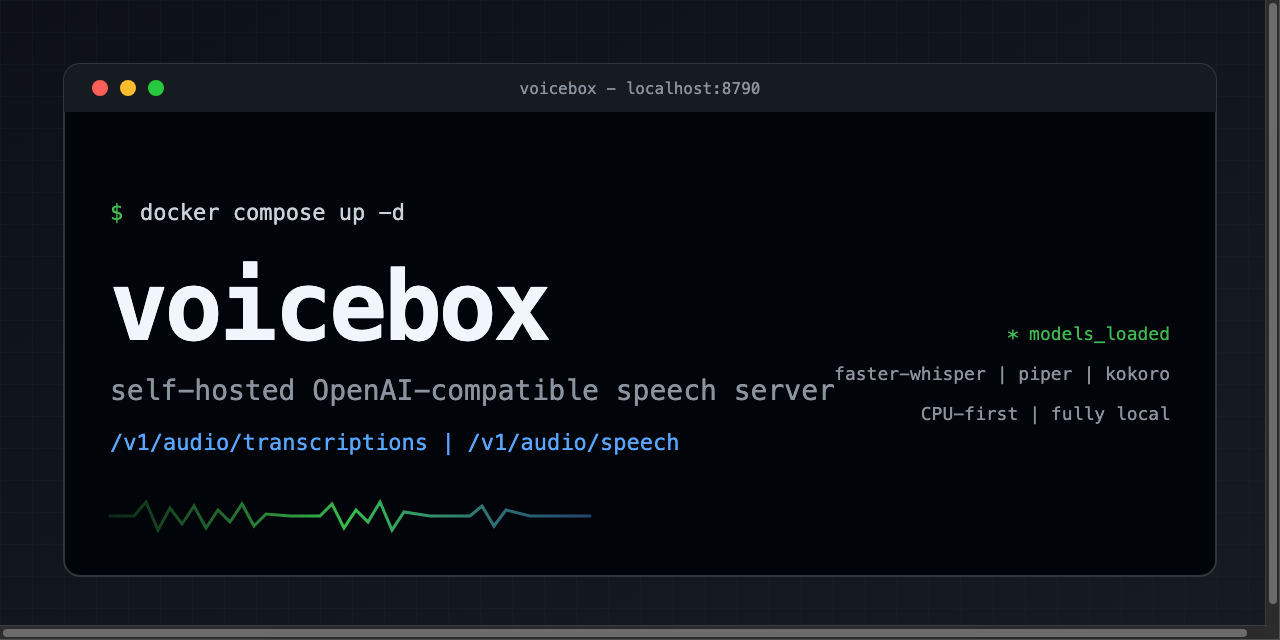
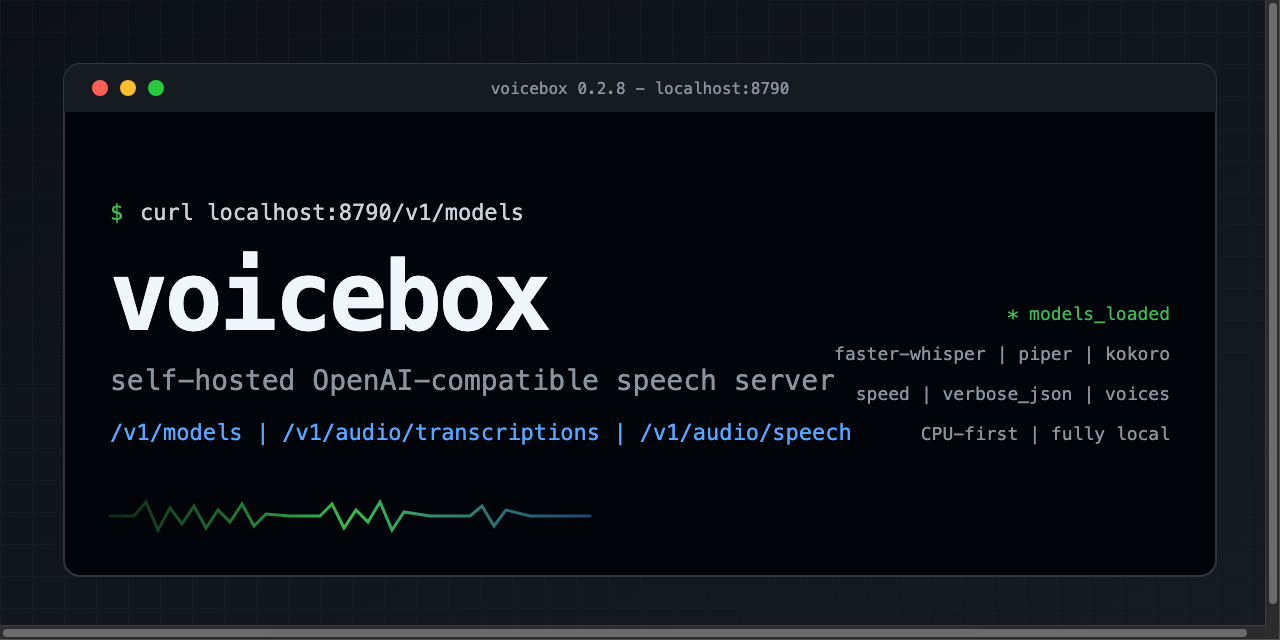
perf: harden CPU latency and ship 0.2.8 docs (#4)
Drop per-decode GC, release the PCM inference lock between chunks, cap OpenMP/MKL via container ENV, and refresh README/banner/demo for /v1/models and related API surface.

diff --git a/tests/test_app.py b/tests/test_app.py
@@ -146,6 +146,32 @@ def test_speech_pcm_declares_audio_format(client):
     assert r.headers["x-audio-sample-format"] == "s16le"
 
 
+def test_pcm_releases_inference_lock_between_chunks():
+    """After the first PCM chunk is yielded, the inference lock must be free.
+
+    Proves a slow reader cannot hold the lock across the client drain gap.
+    Uses non-blocking acquire (no sleeps / timing races).
+    """
+    import threading
+
+    from voicebox.app import _locked_pcm_chunks
+
+    lock = threading.Lock()
+
+    def two_chunks():
+        yield b"\x01\x00" * 100
+        yield b"\x02\x00" * 100
+
+    stream = _locked_pcm_chunks(lock, two_chunks())
+    first = next(stream)
+    assert first == b"\x01\x00" * 100
+    assert lock.acquire(blocking=False), "lock still held after first PCM chunk"
+    lock.release()
+    assert next(stream) == b"\x02\x00" * 100
+    assert lock.acquire(blocking=False)
+    lock.release()
+
+
 def test_speech_honors_speed_and_voice():
     tts = FakeTts()
     client = TestClient(create_app(FakeStt(), tts, load_settings()))

diff --git a/src/voicebox/app.py b/src/voicebox/app.py
@@ -30,11 +30,23 @@ def _parse_speed(raw) -> float:
     return speed
 
 
+def _locked_pcm_chunks(lock: threading.Lock, iterator):
+    """Yield PCM chunks, holding lock only while synthesizing each chunk."""
+    while True:
+        with lock:
+            try:
+                chunk = next(iterator)
+            except StopIteration:
+                return
+        yield chunk
+
+
 def create_app(stt, tts, settings: Settings) -> FastAPI:
-    app = FastAPI(title="voicebox", version="0.2.7")
+    app = FastAPI(title="voicebox", version="0.2.8")
     # This CPU-oriented server favors predictable latency over throughput. Keeping
     # one model inference active prevents STT and TTS from fighting for the same cores.
     inference_lock = threading.Lock()
+    app.state.inference_lock = inference_lock
 
     @app.middleware("http")
     async def authenticate(request: Request, call_next):
@@ -168,13 +180,8 @@ def create_app(stt, tts, settings: Settings) -> FastAPI:
                 headers={"Server-Timing": f"tts;dur={duration_ms:.1f}"},
             )
 
-        # pcm: raw int16 stream for low-latency clients that play as bytes arrive.
-        def gen():
-            with inference_lock:
-                yield from tts.synthesize_stream(text, voice, speed)
-
         return StreamingResponse(
-            gen(),
+            _locked_pcm_chunks(inference_lock, tts.synthesize_stream(text, voice, speed)),
             media_type="audio/pcm",
             headers={
                 "X-Audio-Sample-Rate": str(sample_rate),

diff --git a/tests/test_latency.py b/tests/test_latency.py
@@ -5,6 +5,7 @@ import pytest
 from voicebox.config import load_settings
 from voicebox.stt import SttEngine
 from voicebox.tts import TtsEngine
+from voicebox.tts_piper import PiperTtsEngine
 
 pytestmark = [
     pytest.mark.model,
@@ -33,10 +34,25 @@ def test_stt_faster_than_half_realtime():
     assert rtf < 0.5, f"STT RTF {rtf:.2f} exceeds 0.5x"
 
 
-def test_tts_first_chunk_under_2s():
+def test_tts_kokoro_first_chunk_under_2s():
     engine = TtsEngine(load_settings())
     gen = engine.synthesize_stream("This is the first sentence. And a second one.")
     t0 = time.perf_counter()
     next(gen)  # first sentence chunk
     first = time.perf_counter() - t0
-    assert first < 2.0, f"TTS first chunk {first:.2f}s exceeds 2s"
+    assert first < 2.0, f"Kokoro first chunk {first:.2f}s exceeds 2s"
+
+
+def test_tts_piper_first_chunk_under_2s(settings_factory):
+    settings = settings_factory(tts_engine="piper")
+    try:
+        engine = PiperTtsEngine(settings)
+    except RuntimeError as exc:
+        if "Failed to load Piper voice" in str(exc):
+            pytest.skip(f"Piper voice not available: {exc}")
+        raise
+    gen = engine.synthesize_stream("This is the first sentence. And a second one.")
+    t0 = time.perf_counter()
+    next(gen)
+    first = time.perf_counter() - t0
+    assert first < 2.0, f"Piper first chunk {first:.2f}s exceeds 2s"

diff --git a/src/voicebox/stt.py b/src/voicebox/stt.py
@@ -1,6 +1,5 @@
 from __future__ import annotations
 import io
-import gc
 from dataclasses import dataclass
 
 import av
@@ -68,7 +67,6 @@ def _decode_audio_limited(audio: bytes, max_seconds: int, sampling_rate: int = 1
         raise AudioDecodeError(str(exc)) from exc
     finally:
         del resampler
-        gc.collect()
 
     if not chunks:
         raise AudioDecodeError("no audio decoded")

diff --git a/README.md b/README.md
@@ -12,7 +12,7 @@ voice with no glue code.
 <p align="center">
   <a href="LICENSE"><img src="https://img.shields.io/badge/license-MIT-green?style=flat-square" alt="MIT license"/></a>
   <a href="https://github.com/agjs/voicebox/actions/workflows/test.yml"><img src="https://img.shields.io/github/actions/workflow/status/agjs/voicebox/test.yml?style=flat-square&label=CI" alt="CI"/></a>
-  <img src="https://img.shields.io/badge/version-0.2.6-blue?style=flat-square" alt="version 0.2.6"/>
+  <img src="https://img.shields.io/badge/version-0.2.8-blue?style=flat-square" alt="version 0.2.8"/>
   <a href="https://github.com/agjs/voicebox/pkgs/container/voicebox"><img src="https://img.shields.io/badge/ghcr.io-agjs%2Fvoicebox-blue?style=flat-square" alt="GHCR"/></a>
   <img src="https://img.shields.io/badge/python-3.11-blue?style=flat-square" alt="Python 3.11"/>
 </p>
@@ -24,8 +24,8 @@ voice with no glue code.
 ## Why this
 
 - **Fully local.** No cloud calls and no required API keys; audio stays on your machine.
-- **OpenAI drop-in.** Point clients at `http://<host>:8790/v1` for `/v1/audio/transcriptions` and `/v1/audio/speech`.
-- **CPU-fast by default.** Piper TTS runs roughly 14x faster than real-time on a plain quad-core; STT uses distil-whisper int8.
+- **OpenAI drop-in.** `GET /v1/models`, `POST /v1/audio/transcriptions` (including `verbose_json` segment timestamps), and `POST /v1/audio/speech` with `voice` and `speed` (0.25-4.0).
+- **CPU-fast by default.** Piper TTS runs roughly 14x faster than real-time on a plain quad-core; STT uses distil-whisper int8. Thread caps stay aligned with your container CPU quota.
 - **One Docker command.** Models bake into the image; `docker compose up` is enough.
 - **Works with your stack.** Open WebUI, included voice-chat / Claude Code clients, or any OpenAI-audio SDK.
 
@@ -82,7 +82,7 @@ In Admin, open Settings then Audio:
 | STT API Key | `sk-none`, or your `VOICEBOX_API_KEY` when authentication is enabled |
 | Text-to-Speech Engine | `OpenAI` |
 | TTS API Base URL | `http://<host>:8790/v1` |
-| TTS Voice | `af_heart` (Kokoro) or a baked Piper id such as `en_US-amy-medium` |
+| TTS Voice | Piper: a baked id such as `en_US-amy-medium` (default engine). Kokoro: e.g. `af_heart`. |
 
 ### Included clients (`clients/`)
 
@@ -95,9 +95,10 @@ push-to-talk dictation helper. Both read
 ## Voices
 
 TTS defaults to Piper, which is fast, natural, and CPU-friendly. Three voices
-ship baked into the image and switch with no rebuild:
+ship baked into the image. Switch with `VOICEBOX_PIPER_VOICE` or the request
+`voice` field (must be one of the baked ids; unknown voices return 400):
 
-| `VOICEBOX_PIPER_VOICE` | character |
+| `VOICEBOX_PIPER_VOICE` / request `voice` | character |
 |---|---|
 | `en_US-amy-medium` (default) | warm, female |
 | `en_US-bryce-medium` | male |
@@ -108,8 +109,10 @@ one you like? Set `VOICEBOX_PIPER_VOICE=en_US-<voice>-<quality>`, add it to
 `scripts/fetch_models.py`, and rebuild. Runtime Hugging Face access is deliberately
 offline, so voices must be baked into the image.
 
-Speaking rate is `VOICEBOX_PIPER_LENGTH_SCALE`, where lower is faster (`1.0` is
-natural, `0.8` is brisk, `1.2` and up is slow narration).
+Speaking rate: request `speed` on `/v1/audio/speech` (OpenAI-style 0.25-4.0,
+default 1.0), or set `VOICEBOX_PIPER_LENGTH_SCALE` as the base rate (lower is
+faster: `1.0` natural, `0.8` brisk, `1.2` slow narration). Effective Piper
+length scale is `VOICEBOX_PIPER_LENGTH_SCALE / speed`.
 
 ### Two engines
 
@@ -150,7 +153,7 @@ Everything is set with environment variables (see `.env.example`):
 | `VOICEBOX_TTS_MODEL` | `speaches-ai/Kokoro-82M-v1.0-ONNX` | Kokoro model (when engine is kokoro) |
 | `VOICEBOX_DEFAULT_VOICE` | `af_heart` | Kokoro default voice |
 | `VOICEBOX_DEVICE` | `cpu` | `cpu` or `cuda` |
-| `VOICEBOX_CPU_THREADS` | `4` | CTranslate2 CPU threads; match your physical cores / container quota |
+| `VOICEBOX_CPU_THREADS` | `4` | CTranslate2 CPU threads for STT. Match physical cores / `VOICEBOX_CPUS`. Compose also sets `OMP_NUM_THREADS` and `MKL_NUM_THREADS` from this value to avoid OpenMP oversubscription (more threads than CPUs often hurts latency). Bare-metal runs should export the same OpenMP/MKL vars before starting the process. |
 | `VOICEBOX_API_KEY` | empty | Optional bearer token protecting audio endpoints |
 | `VOICEBOX_BIND_ADDRESS` | `127.0.0.1` | Host interface published by Docker Compose |
 | `VOICEBOX_PORT` | `8790` | Listen port |
@@ -169,12 +172,15 @@ CPU-only, on one reference box (a 2015-era quad-core, no GPU):
 | TTS | Kokoro-82M | about 0.5x |
 
 For that class of CPU, keep Piper, int8 STT, four inference threads, and a
-four-CPU container quota. If latency varies under load, give voicebox priority
-over heavier background services and watch for sustained frequency drops. A
-future CUDA node can use `VOICEBOX_DEVICE=cuda`; the CPU-oriented Piper path
-remains the default. The supplied image is CPU-only: a future GPU deployment
-also needs a CUDA/cuDNN runtime image (or a host installation with those
-libraries), not only the environment-variable change.
+four-CPU container quota. Cap OpenMP/MKL to that same thread count (Compose wires
+`OMP_NUM_THREADS` / `MKL_NUM_THREADS` from `VOICEBOX_CPU_THREADS`); oversubscribing
+threads past the cgroup CPU limit usually adds latency rather than removing it.
+If latency varies under load, give voicebox priority over heavier background
+services and watch for sustained frequency drops. A future CUDA node can use
+`VOICEBOX_DEVICE=cuda`; the CPU-oriented Piper path remains the default. The
+supplied image is CPU-only: a future GPU deployment also needs a CUDA/cuDNN
+runtime image (or a host installation with those libraries), not only the
+environment-variable change.
 
 ## Development
 